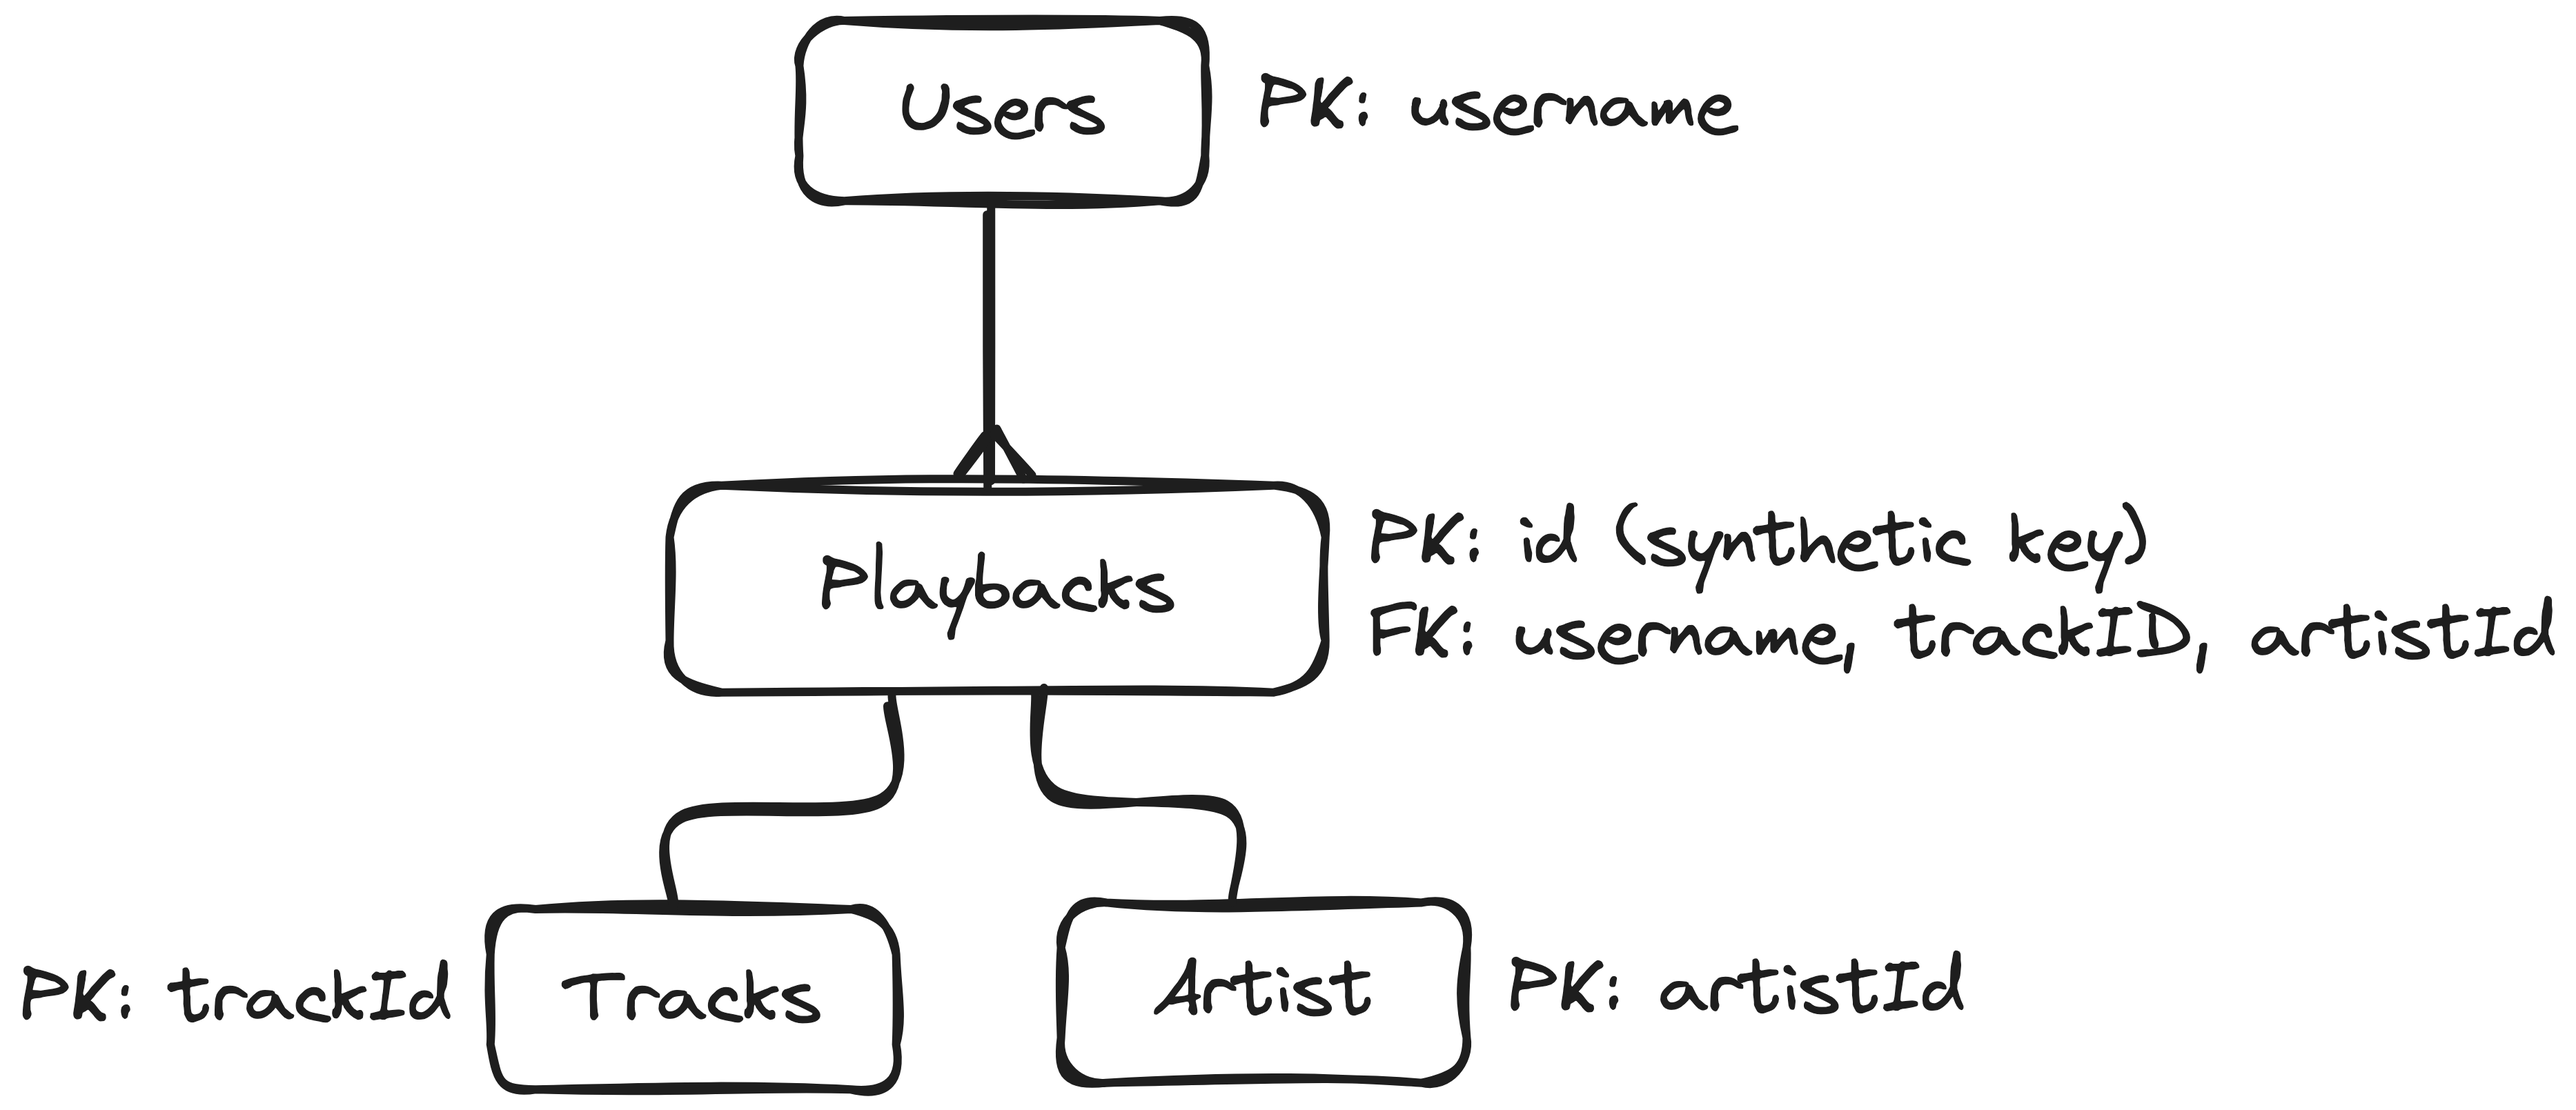
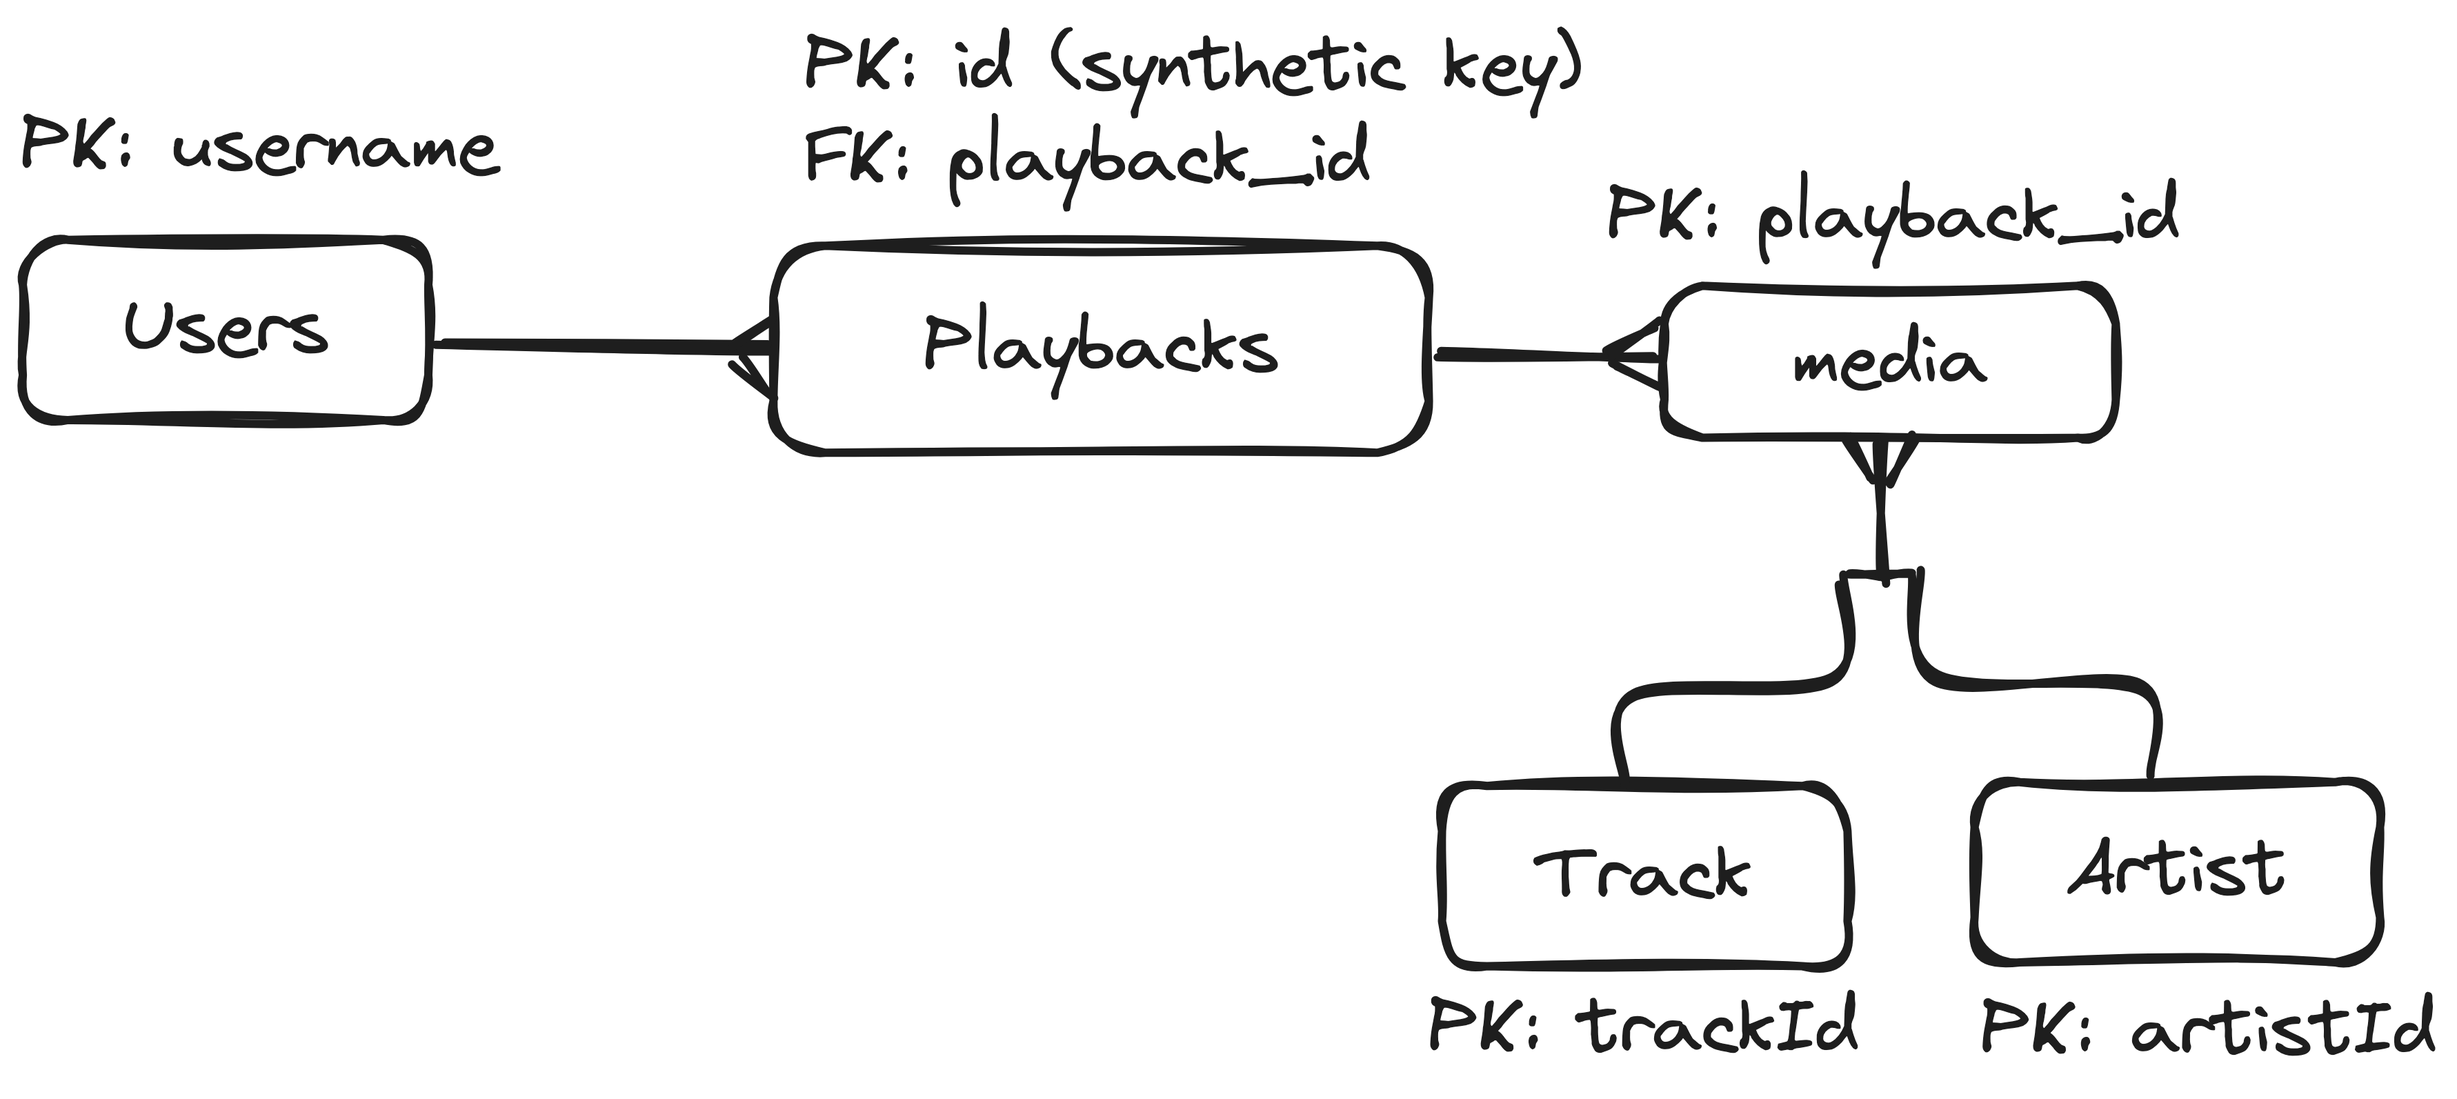
add new schema to diagram png & md

diff --git a/dbDiagram.md b/dbDiagram.md
@@ -1,5 +1,5 @@
-# Scratchpad for db diagrams
-Table users{
+# Scratchpad for [db diagrams](https://dbdiagram.io/d)
+Table users {
     user_name string [primary key]
 }
 
@@ -7,7 +7,6 @@ Table playback {
     id int [primary key]
     user_name string
     ts timestamp
-    track_id string
     platform string
     ms_played bigint
     conn_country string
@@ -20,7 +19,13 @@ Table playback {
     offline boolean
     offline_timestamp bigint
     incognito_mode boolean
-    podcast_id string
+    media_type string
+}
+
+Table media {
+    playback_id int
+    media_id string
+    media_type string
 }
 
 Table track {
@@ -38,16 +43,13 @@ Table podcast {
     spotify_episode_uri string
 }
 
-Ref: "users"."user_name" < "playbacks"."user_name"
-
-Ref: "playbacks"."track_id" < "track"."track_id"
+Ref: playback.user_name > users.user_name
+Ref: media.playback_id > playback.id
+Ref: media.media_id > track.track_id
+Ref: media.media_id > podcast.podcast_id
 
 <!-- // TODO: Create this table later -->
 <!-- // Table Artist {} -->
-
-Ref: "Users"."username" < "Playbacks"."username"
-
-Ref: "Playbacks"."ts" < "Tracks"."trackId"
 ---
 
 ![Db Diagram](dbScetch.png)
